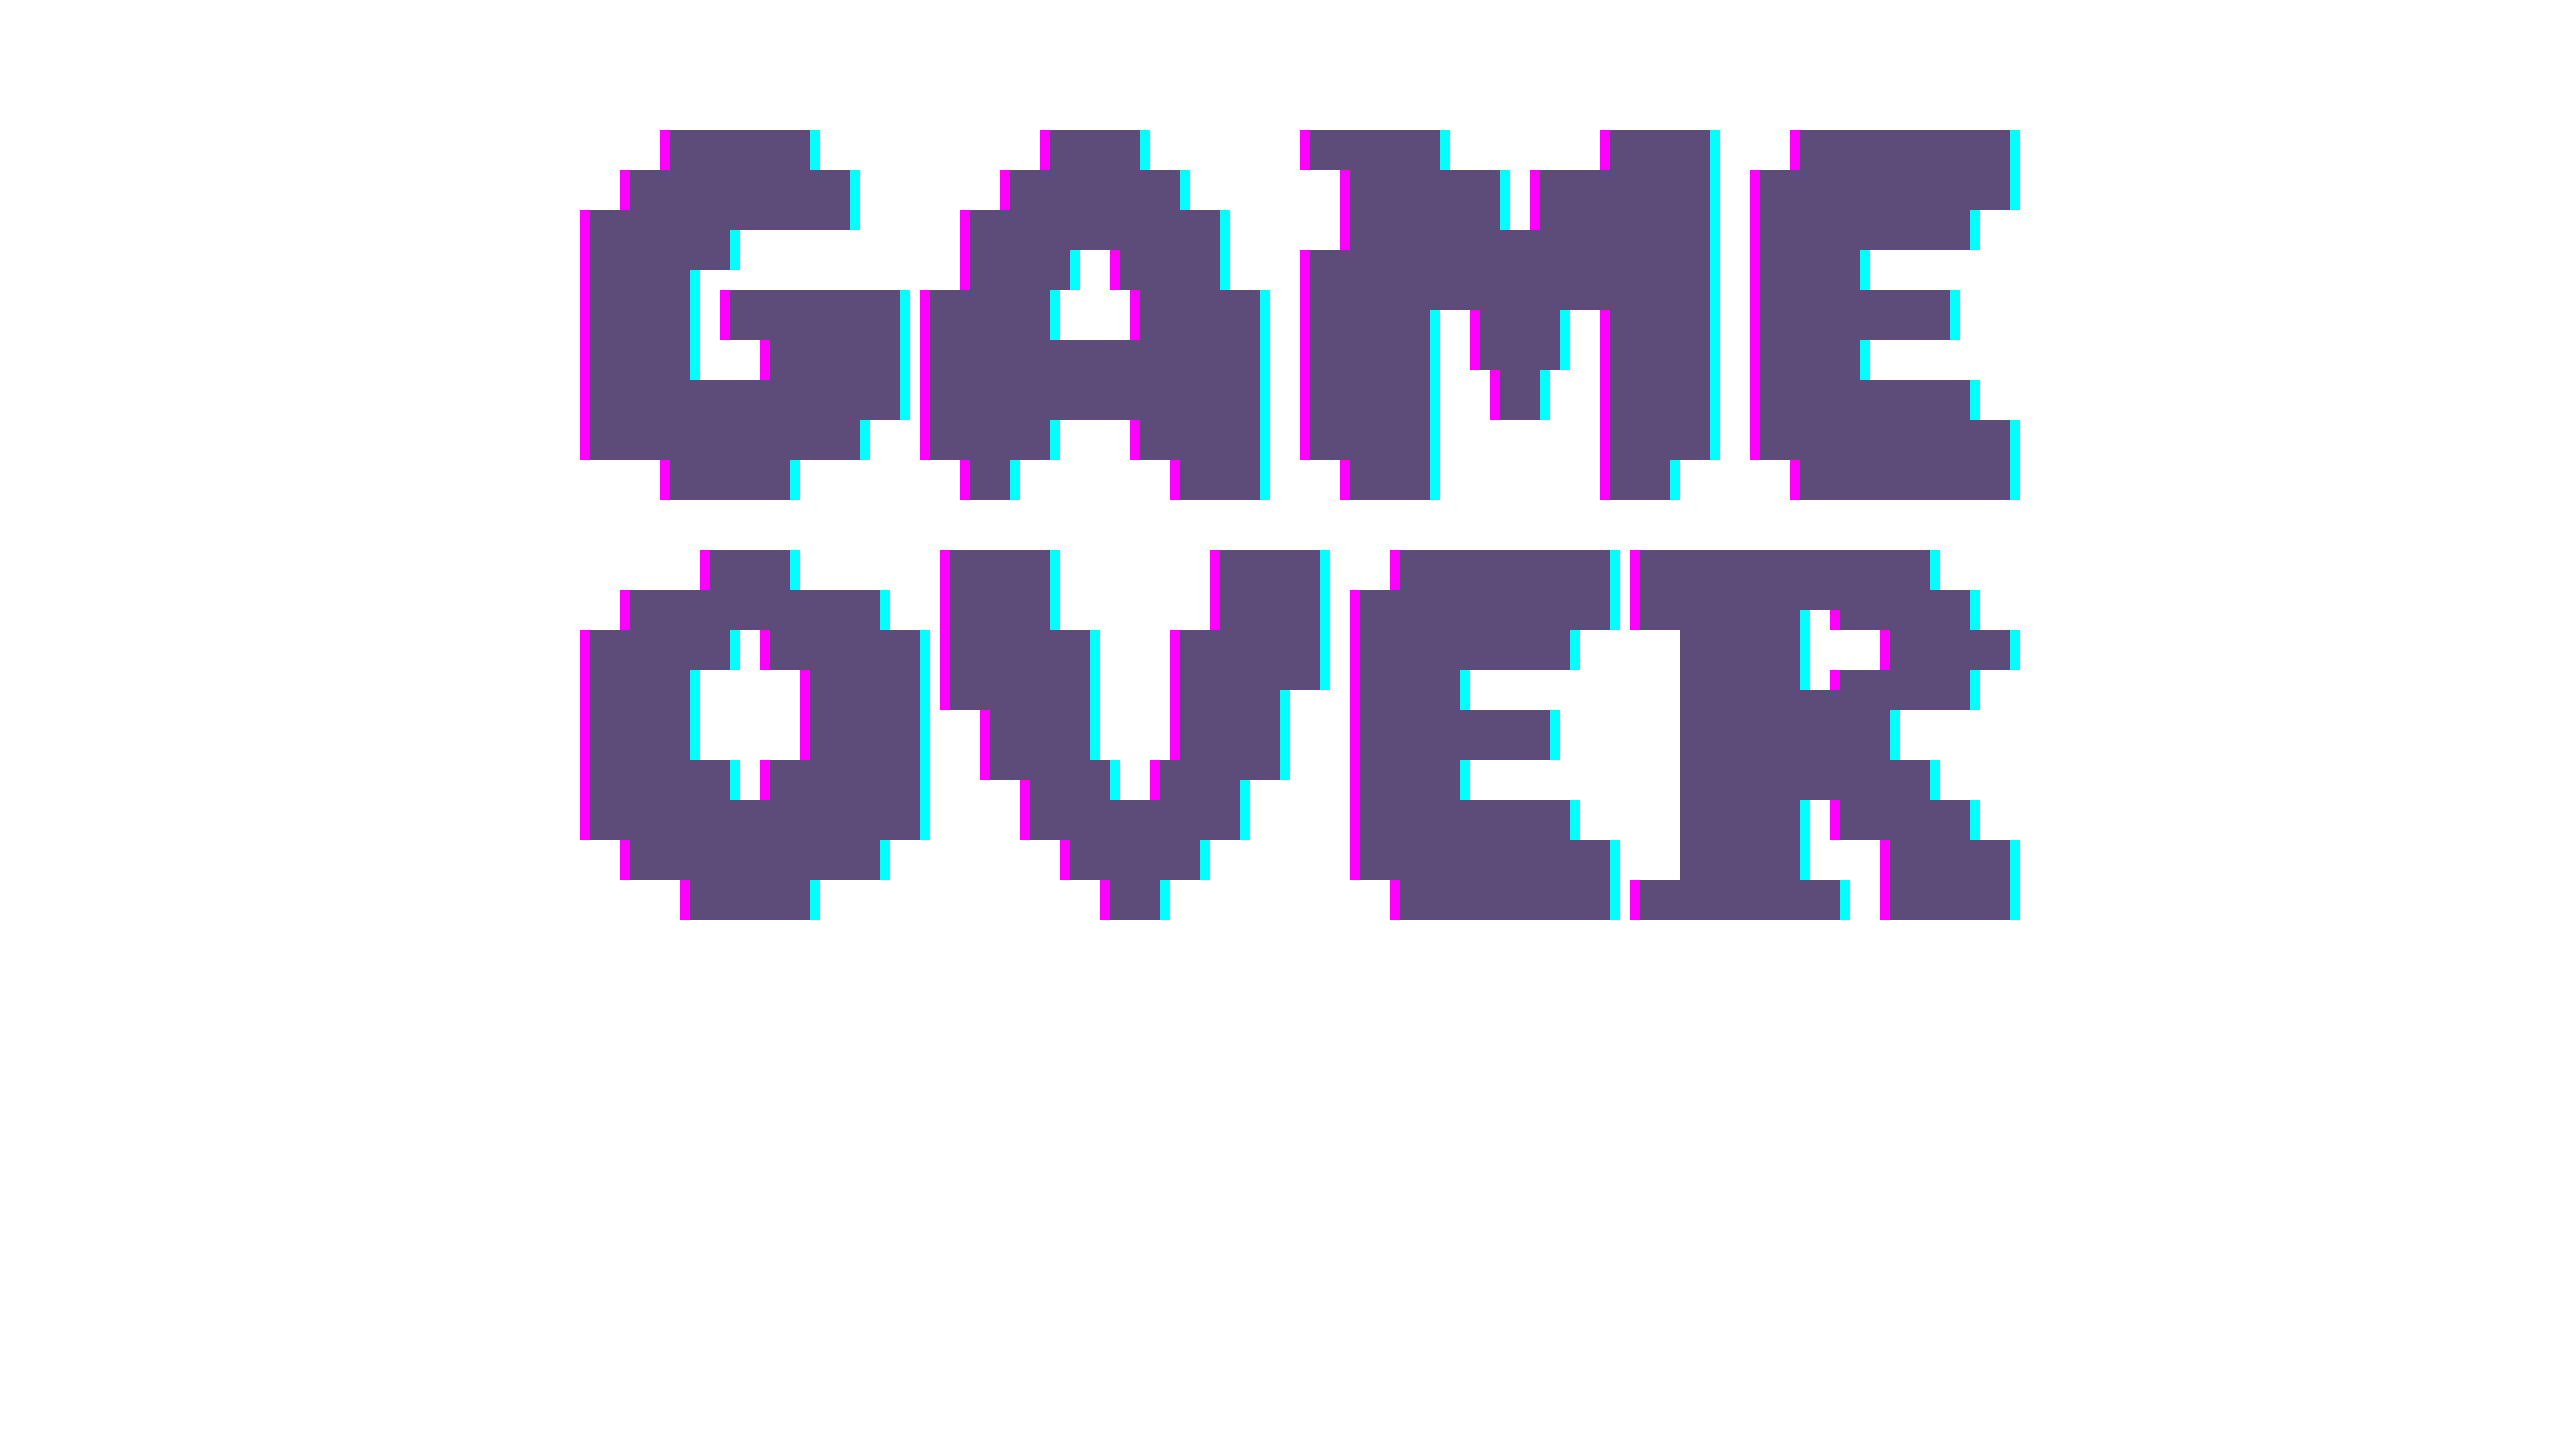
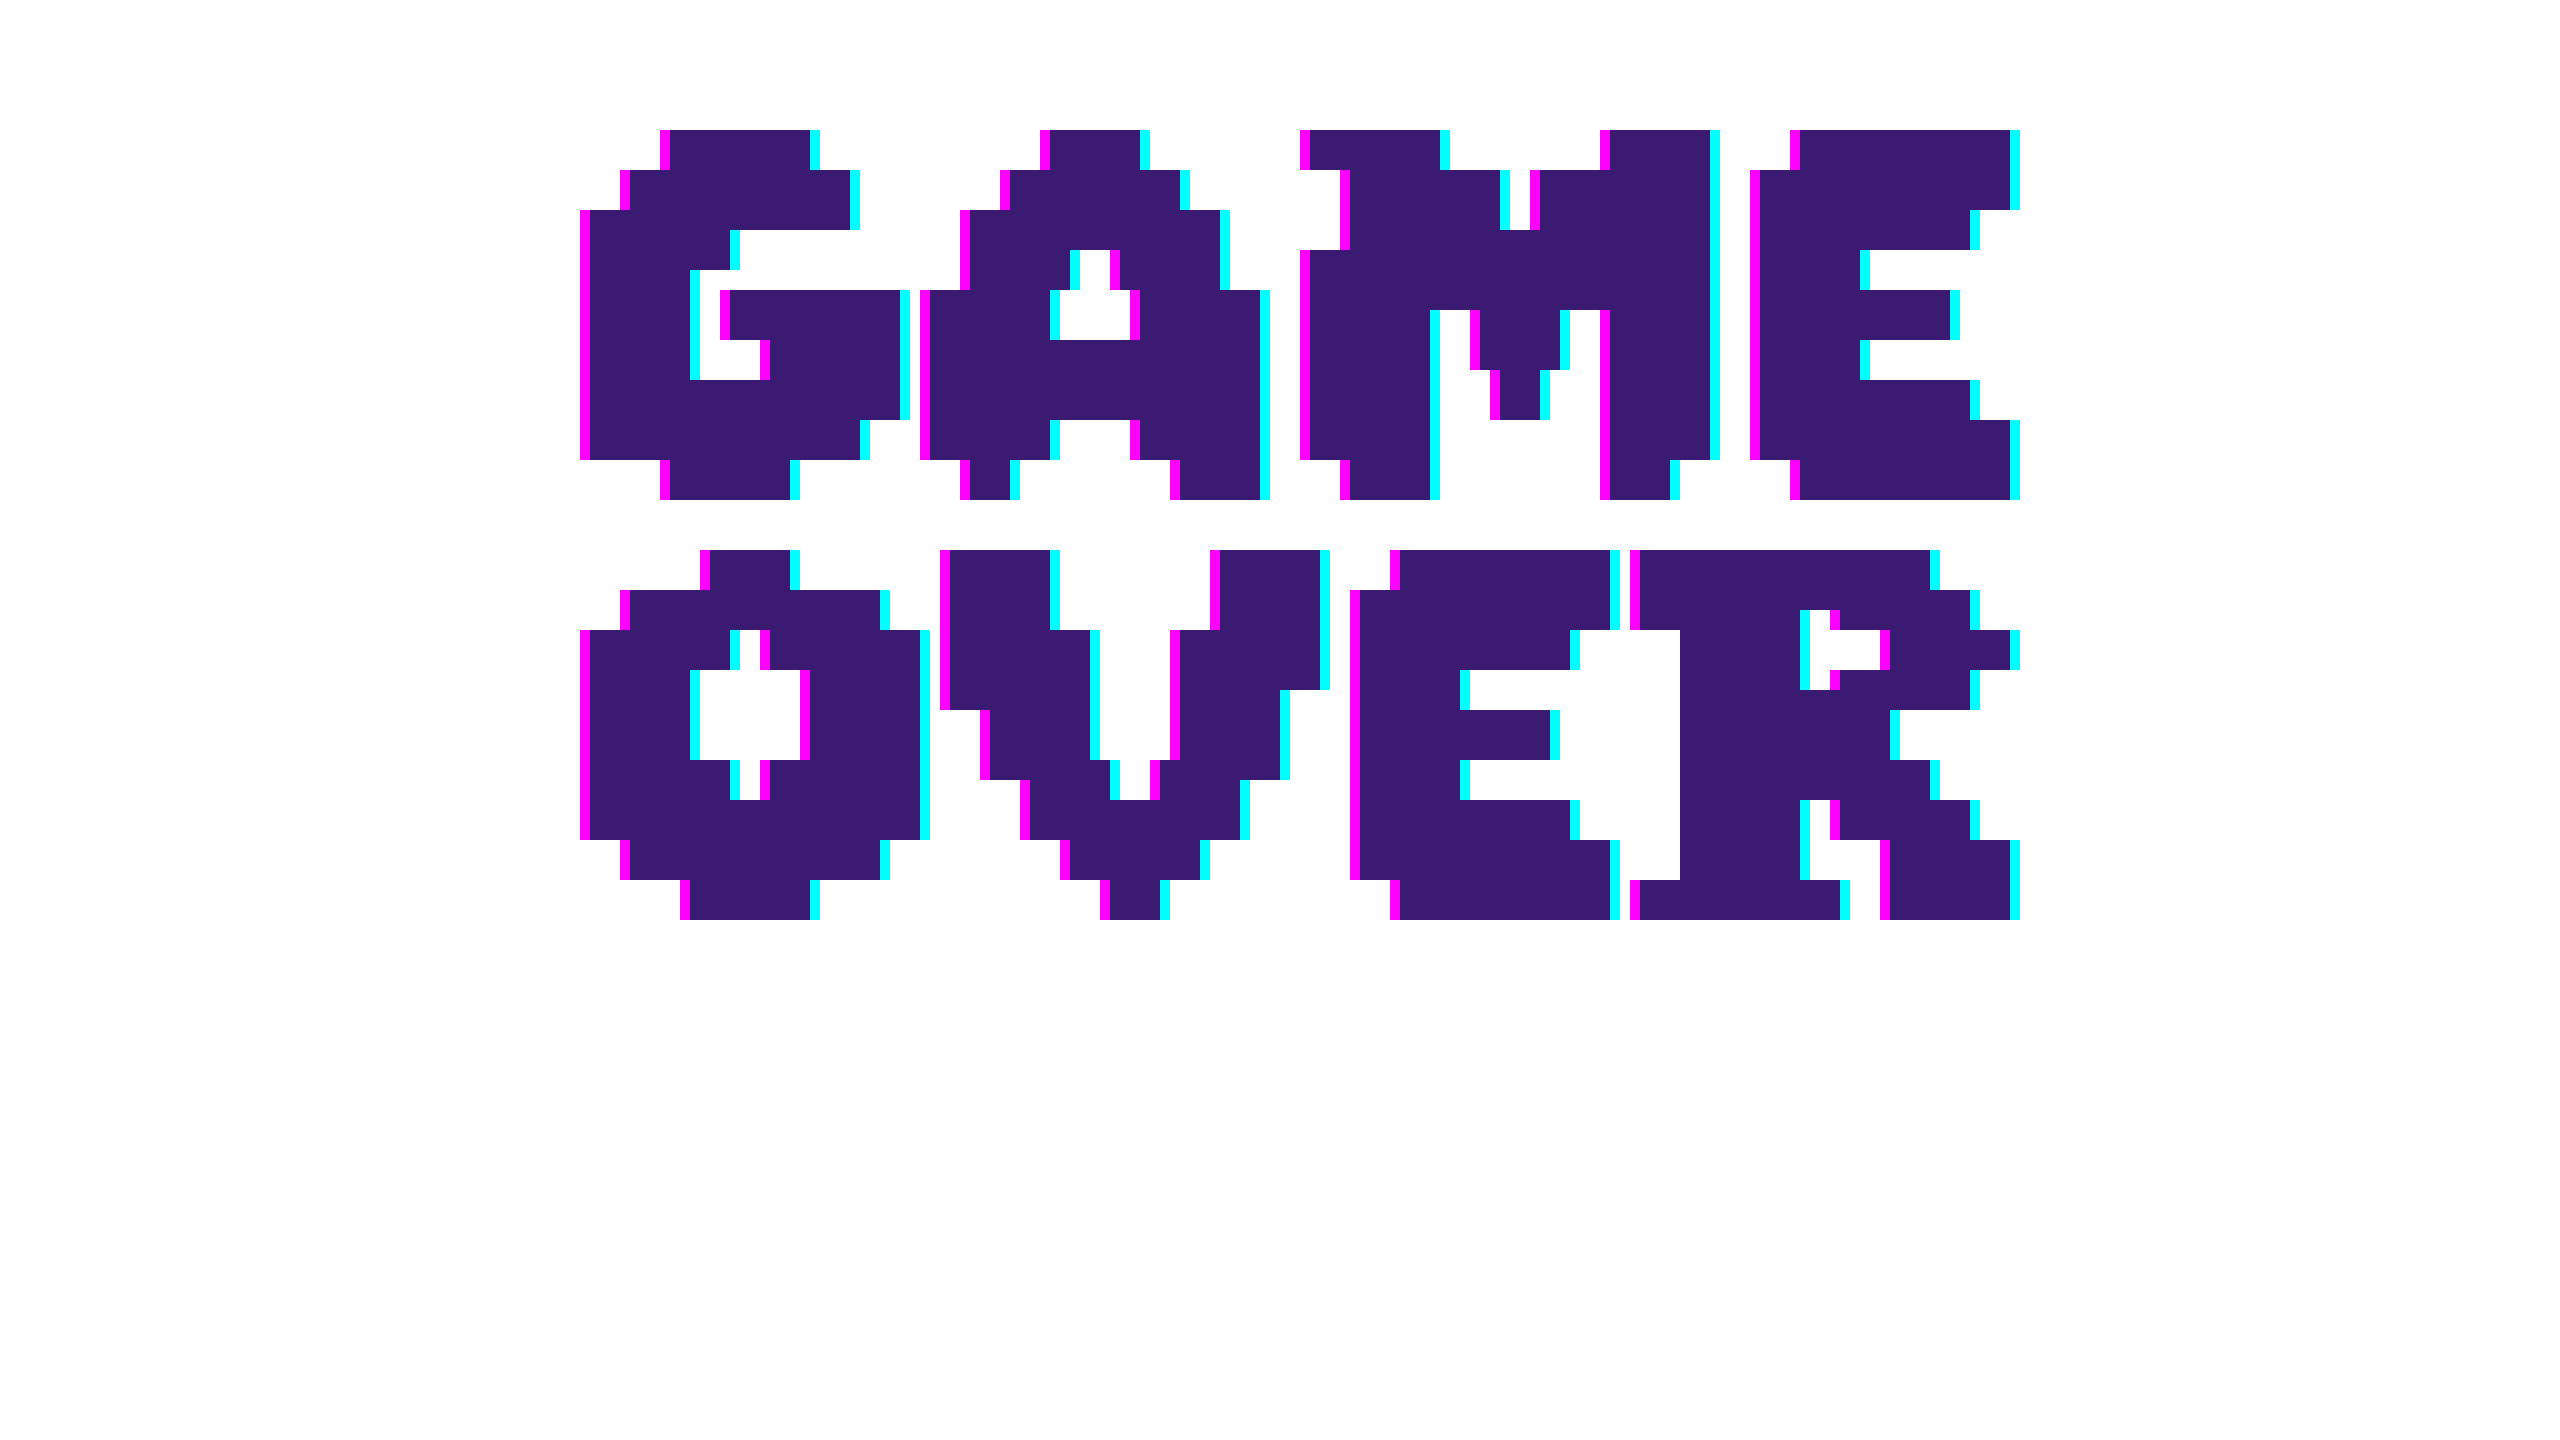
algunos cambios

Changed region(s): [[0.2188, 0.0625, 0.8125, 0.6562]]

diff --git a/tenis/scenes/game_scene.py b/tenis/scenes/game_scene.py
@@ -1,4 +1,5 @@
 import pygame
+import random
 from engine.ui import Scene
 from tenis.entities.player import Player
 
@@ -29,43 +30,68 @@ class GameScene(Scene):
         # jugadores
         self.players = []
         self.num_players = num_players
-        self.character1 = character1
-        self.character2 = character2
 
         # Debug: mostrar qué se recibió
         print(f"\n🎮 GameScene inicializado:")
         print(f"   num_players: {num_players}")
-        print(f"   character1: {character1}")
-        print(f"   character2: {character2}")
+        print(f"   character1 recibido: {character1}")
+        print(f"   character2 recibido: {character2}")
 
-        # Crear Player 1
-        # El jugador 1 siempre usa sprites de "player 1" con la variante seleccionada
-        variant1 = character1 if character1 is not None else 1
+        # ===== LÓGICA CORREGIDA PARA SELECCIÓN DE PERSONAJES =====
+        if num_players == 1:
+            # En modo 1 jugador:
+            # - character1 es el que eligió el usuario, pero debe ser el Player 2 (abajo)
+            # - Player 1 (arriba, CPU) debe ser aleatorio
+
+            # Generar variante aleatoria para la CPU (Player 1)
+            variant1 = random.randint(1, 4)  # Ajusta el rango según tus variantes disponibles
+
+            # El personaje elegido por el usuario va al Player 2
+            variant2 = character1 if character1 is not None else 1
+
+            print(f"   Modo 1 jugador:")
+            print(f"   Player 1 (CPU): aleatorio = {variant1}")
+            print(f"   Player 2 (Usuario): elegido = {variant2}")
+
+        else:
+            # En modo 2 jugadores: ambos son elegidos por los usuarios
+            variant1 = character1 if character1 is not None else 1
+            variant2 = character2 if character2 is not None else 1
+
+            print(f"   Modo 2 jugadores:")
+            print(f"   Player 1: {variant1}")
+            print(f"   Player 2: {variant2}")
+
+        # Crear Player 1 (arriba)
         print(f"   Creando Player 1: player_number=1, variant={variant1}")
-
         self.player1 = Player(
             450, 50,
             player_number=1,
             variant=variant1,
-            control_scheme='wasd'
+            control_scheme='wasd'  # Siempre WASD + V
         )
         self.players.append(self.player1)
         self.player1.print_available_animations()
 
-        # Crear Player 2 (si corresponde)
-        if num_players == 2:
-            # El jugador 2 siempre usa sprites de "player 2" con la variante seleccionada
-            variant2 = character2 if character2 is not None else 1
-            print(f"   Creando Player 2: player_number=2, variant={variant2}")
+        # Crear Player 2 (abajo)
+        print(f"   Creando Player 2: player_number=2, variant={variant2}")
 
-            self.player2 = Player(
-                1100, 750,
-                player_number=2,
-                variant=variant2,
-                control_scheme='arrows'
-            )
-            self.players.append(self.player2)
-            self.player2.print_available_animations()
+        # Determinar control_scheme según el modo
+        if num_players == 1:
+            # En modo 1 jugador: Player 2 es el usuario con Flechas + Espacio
+            control = 'arrows_space'
+        else:
+            # En modo 2 jugadores: Player 2 usa Flechas + L
+            control = 'arrows'
+
+        self.player2 = Player(
+            1100, 750,
+            player_number=2,
+            variant=variant2,
+            control_scheme=control
+        )
+        self.players.append(self.player2)
+        self.player2.print_available_animations()
 
         # red y colisión
         self.red_y = self.game.height // 2
@@ -110,18 +136,17 @@ class GameScene(Scene):
         # ========== PARA TESTEAR EL GAMEOVER ==========
         now = pygame.time.get_ticks()
         if now - self.test_timer >= self.test_duration:
-
             # CASO 1: 2 jugadores, gana jugador 1
-            #self.game.change_scene('gameover', num_players=2, winner=1)
+            # self.game.change_scene('gameover', num_players=2, winner=1)
 
             # CASO 2: 2 jugadores, gana jugador 2
             # self.game.change_scene('gameover', num_players=2, winner=2)
 
-            # CASO 3: 1 jugador, gana el humano (jugador 1)
-            # self.game.change_scene('gameover', num_players=1, winner=1)
+            # CASO 3: 1 jugador, gana la CPU (jugador 1)
+            self.game.change_scene('gameover', num_players=1, winner=1)
 
-            # CASO 4: 1 jugador, gana la CPU (jugador 2)
-            self.game.change_scene('gameover', num_players=1, winner=2)
+            # CASO 4: 1 jugador, gana el humano (jugador 2)
+            # self.game.change_scene('gameover', num_players=1, winner=2)
 
     def handle_net_collision(self):
         """Detecta colisiones pixel-perfect con la red según el jugador"""
@@ -174,18 +199,24 @@ class GameScene(Scene):
         """Evita que los jugadores salgan de la pantalla usando rects"""
 
         sprite_width, sprite_height = 300, 300  # tamaño escalado
+
+        margin_left = 15
+        margin_right = 50
+        margin_top = 75
+        margin_bottom = 75
+
         for player in self.players:
             # Laterales
-            if player.x < 0:
-                player.x = 0
-            elif player.x + sprite_width > self.game.width:
-                player.x = self.game.width - sprite_width
+            if player.x < -margin_left:
+                player.x = -margin_left
+            elif player.x + sprite_width > self.game.width + margin_right:
+                player.x = self.game.width + margin_right - sprite_width
 
             # Arriba/abajo
-            if player.y < 0:
-                player.y = 0
-            elif player.y + sprite_height > self.game.height:
-                player.y = self.game.height - sprite_height
+            if player.y < -margin_top:
+                player.y = -margin_top
+            elif player.y + sprite_height > self.game.height + margin_bottom:
+                player.y = self.game.height + margin_bottom - sprite_height
 
             player.rect.x = player.x
             player.rect.y = player.y

diff --git a/tenis/entities/player.py b/tenis/entities/player.py
@@ -122,9 +122,14 @@ class Player(GameObject):
 
     def handle_keydown(self, key):
         """Marca que se debe iniciar la animación de golpe al presionar la tecla"""
-        if self.control_scheme == 'wasd' and key == pygame.K_SPACE:
+        # Controles para jugador 1 (WASD + V)
+        if self.control_scheme == 'wasd' and key == pygame.K_v:
             self._start_hit()
-        elif self.control_scheme == 'arrows' and (key == pygame.K_SLASH or key == pygame.K_RCTRL):
+        # Controles para jugador 2 en modo 2 jugadores (Flechas + L)
+        elif self.control_scheme == 'arrows' and key == pygame.K_l:
+            self._start_hit()
+        # Controles para jugador 2 en modo 1 jugador (Flechas + Espacio)
+        elif self.control_scheme == 'arrows_space' and key == pygame.K_SPACE:
             self._start_hit()
 
     def _start_hit(self):

diff --git a/tenis/scenes/gameover_scene.py b/tenis/scenes/gameover_scene.py
@@ -60,7 +60,7 @@ class GameOverScene(Scene):
             self.message = f"Felicitaciones Jugador {self.winner}, ganaste!"
             self.level_up_sound.play()
         else:
-            if self.winner == 1:
+            if self.winner == 2:
                 self.message = "Ganaste! :)"
                 self.cheers_sound.play()
             else:
@@ -118,6 +118,6 @@ class GameOverScene(Scene):
         surface.blit(boton_salir_actual, (0, 0))
 
         message_rect = self.message_surf.get_rect(
-            center=(self.game.width // 2, self.game.height // 1.3)
+            center=(self.game.width // 2, self.game.height // 1.33)
         )
         surface.blit(self.message_surf, message_rect)
